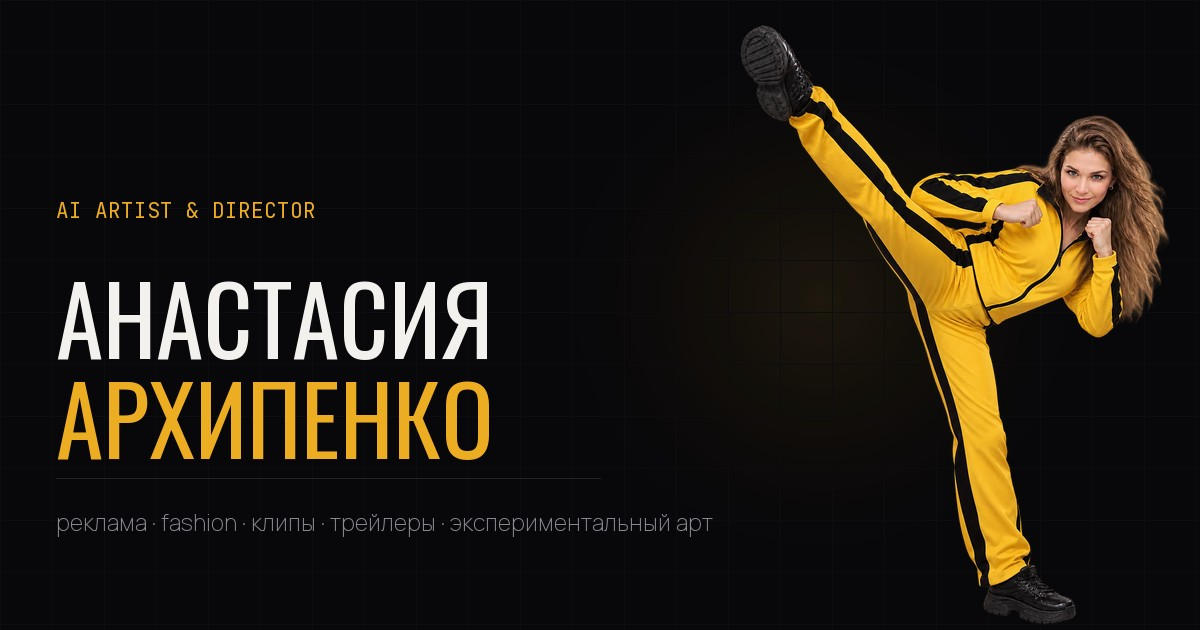
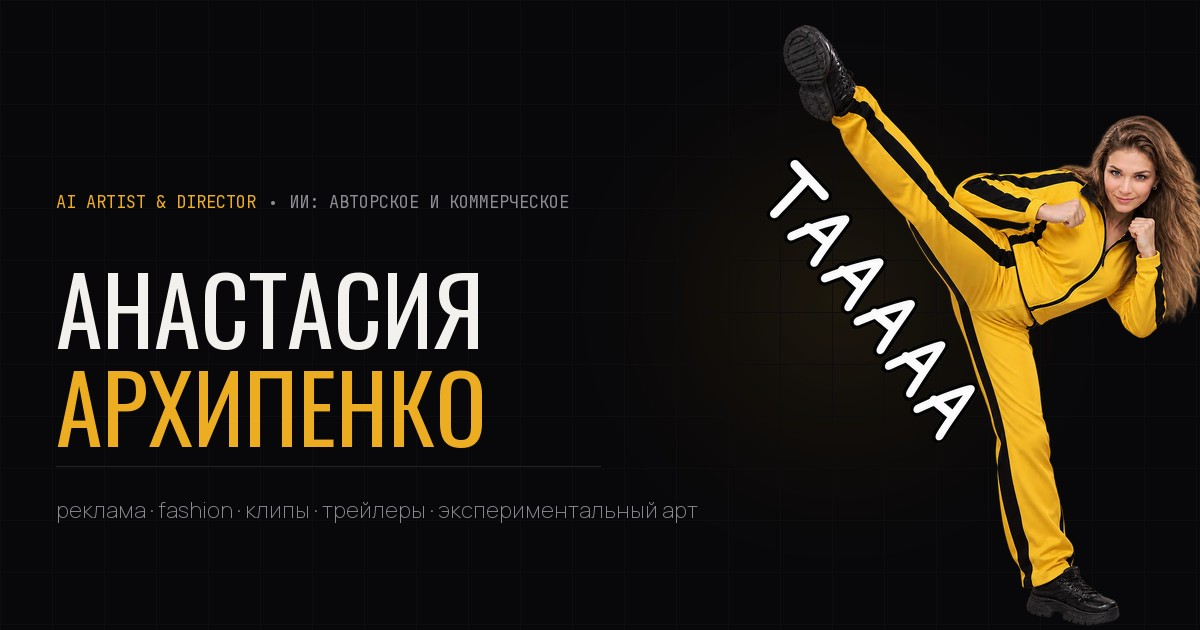
Обложка с буквами ТА, плотная жёлтая плашка, рука вместо кнопки, счётчик из-под крестика
Со-автор: Claude Opus 5 <noreply@anthropic.com>

diff --git a/index.html b/index.html
@@ -478,36 +478,40 @@ section{scroll-margin-top:calc(var(--nav-h) + 10px)}
    На жёлтом весь текст тёмный: акцентом здесь работает сам фон. */
 .contact{
   background:var(--yellow);color:#151208;
-  padding:clamp(38px,6vw,86px) 0 clamp(34px,5vw,70px);
+  padding:clamp(28px,3.6vw,52px) 0 clamp(24px,3vw,42px);
   text-align:left;
 }
 .contact .lbl{color:rgba(21,18,8,.58)}
 .contact h2{
-  font-family:var(--display);font-weight:700;font-size:clamp(34px,7vw,104px);
-  text-transform:uppercase;line-height:.95;margin:0 0 clamp(18px,2.4vw,30px);
+  font-family:var(--display);font-weight:700;font-size:clamp(32px,6vw,86px);
+  text-transform:uppercase;line-height:.95;margin:0 0 clamp(14px,1.8vw,22px);
   margin-left:-.017em;
 }
 .contact h2 .y{color:#151208}
 .steps{
-  list-style:none;counter-reset:s;padding:0;margin:0 0 clamp(26px,3.4vw,42px);
-  display:grid;gap:0;border-top:1px solid rgba(21,18,8,.2);max-width:760px;
+  list-style:none;counter-reset:s;padding:0;margin:0 0 clamp(20px,2.4vw,30px);
+  display:grid;gap:0;border-top:1px solid rgba(21,18,8,.2);max-width:720px;
 }
 .steps li{
-  counter-increment:s;position:relative;padding:clamp(13px,1.7vw,18px) 0 clamp(13px,1.7vw,18px) 42px;
-  border-bottom:1px solid rgba(21,18,8,.2);color:rgba(21,18,8,.82);font-size:clamp(14px,1.2vw,16.5px);
+  counter-increment:s;position:relative;
+  padding:clamp(9px,1.1vw,13px) 0 clamp(9px,1.1vw,13px) 54px;
+  border-bottom:1px solid rgba(21,18,8,.2);color:#151208;font-size:clamp(14px,1.2vw,16.5px);
 }
+/* номер в техничном квадрате — иначе на жёлтом он просто пропадал */
 .steps li::before{
   content:"0" counter(s);position:absolute;left:0;top:50%;transform:translateY(-50%);
-  font-family:var(--mono);font-size:10.5px;color:rgba(21,18,8,.5);
+  font-family:var(--mono);font-size:11.5px;font-weight:700;color:#151208;
+  border:1.5px solid rgba(21,18,8,.5);padding:5px 6px;line-height:1;
 }
-.socials{display:flex;align-items:center;gap:clamp(10px,1.6vw,18px);flex-wrap:wrap}
+.socials{display:flex;align-items:center;gap:clamp(8px,1.4vw,16px);flex-wrap:wrap}
 .socials .writeme{font-family:var(--mono);font-size:10.5px;letter-spacing:.18em;text-transform:uppercase;color:rgba(21,18,8,.6)}
-.tg{
-  font-family:var(--mono);font-size:12px;letter-spacing:.14em;text-transform:uppercase;font-weight:500;
-  padding:15px 26px;background:#0B0B0C;color:var(--yellow);
-  transition:transform .3s cubic-bezier(.16,1,.3,1),box-shadow .3s;
+/* указующая рука из черновика — покачивается вправо, к иконкам */
+.point{
+  flex:none;font-size:34px;line-height:1;color:#151208;
+  animation:nudge 2.4s ease-in-out infinite;
 }
-.tg:hover{transform:translateY(-3px);box-shadow:0 10px 24px -12px rgba(21,18,8,.8)}
+@keyframes nudge{0%,100%{translate:0 0}50%{translate:7px 0}}
+@media (prefers-reduced-motion:reduce){.point{animation:none}}
 .soc{
   width:46px;height:46px;display:grid;place-items:center;
   border:1px solid rgba(21,18,8,.32);color:rgba(21,18,8,.72);
@@ -576,7 +580,8 @@ footer{
 .car__nav--prev{left:12px}
 .car__nav--next{right:12px}
 .car__count{
-  position:absolute;right:12px;top:12px;z-index:3;
+  /* слева, а не справа: справа его закрывает крестик закрытия */
+  position:absolute;left:12px;top:12px;z-index:3;
   font-family:var(--mono);font-size:10.5px;letter-spacing:.1em;
   color:var(--muted);background:rgba(8,8,10,.72);border:1px solid var(--line);
   padding:5px 10px;border-radius:999px;font-variant-numeric:tabular-nums;
@@ -606,6 +611,15 @@ footer{
   .hero{grid-template-columns:1fr;gap:6px;padding-top:clamp(22px,6vw,34px)}
   .fmt span{flex:1 1 40%}
   /* вторая подпись уходит на свою строку — в одну они не помещаются */
+  .about{justify-items:center}
+  .pop{margin-inline:auto}
+  .about__body p{text-align:center}
+  /* «просто напишите» и три иконки должны умещаться в одну строку */
+  .socials{gap:8px;flex-wrap:nowrap}
+  .socials .writeme{font-size:9.5px;letter-spacing:.12em}
+  .point{font-size:26px}
+  .soc{width:42px;height:42px}
+  .soc svg{width:19px;height:19px}
   .hero__eyebrow{font-size:10px;line-height:1.7}
   .hero__eyebrow s{display:none}
   .hero__eyebrow b{display:block}
@@ -856,9 +870,8 @@ footer{
       <li data-ru="фиксируем условия — и я приступаю" data-en="we agree the terms, and i get started">фиксируем условия — и я приступаю</li>
     </ol>
     <div class="socials">
-      <a class="tg" href="https://telegram.me/Anastasia_aa_aa" target="_blank" rel="noopener"
-         data-ru="написать в телеграм" data-en="message me on telegram">написать в телеграм</a>
-      <span class="writeme" data-ru="или" data-en="or">или</span>
+      <span class="writeme" data-ru="просто напишите" data-en="drop me a line">просто напишите</span>
+      <span class="point" aria-hidden="true">☞</span>
       <a class="soc" href="mailto:ai.mambaaa@gmail.com" aria-label="Email">
         <svg viewBox="0 0 24 24" fill="none" stroke="currentColor" stroke-width="1.4" stroke-linecap="round" stroke-linejoin="round">
           <rect x="2.6" y="4.8" width="18.8" height="14.4" rx="3"/>

diff --git a/en/index.html b/en/index.html
@@ -478,36 +478,40 @@ section{scroll-margin-top:calc(var(--nav-h) + 10px)}
    На жёлтом весь текст тёмный: акцентом здесь работает сам фон. */
 .contact{
   background:var(--yellow);color:#151208;
-  padding:clamp(38px,6vw,86px) 0 clamp(34px,5vw,70px);
+  padding:clamp(28px,3.6vw,52px) 0 clamp(24px,3vw,42px);
   text-align:left;
 }
 .contact .lbl{color:rgba(21,18,8,.58)}
 .contact h2{
-  font-family:var(--display);font-weight:700;font-size:clamp(34px,7vw,104px);
-  text-transform:uppercase;line-height:.95;margin:0 0 clamp(18px,2.4vw,30px);
+  font-family:var(--display);font-weight:700;font-size:clamp(32px,6vw,86px);
+  text-transform:uppercase;line-height:.95;margin:0 0 clamp(14px,1.8vw,22px);
   margin-left:-.017em;
 }
 .contact h2 .y{color:#151208}
 .steps{
-  list-style:none;counter-reset:s;padding:0;margin:0 0 clamp(26px,3.4vw,42px);
-  display:grid;gap:0;border-top:1px solid rgba(21,18,8,.2);max-width:760px;
+  list-style:none;counter-reset:s;padding:0;margin:0 0 clamp(20px,2.4vw,30px);
+  display:grid;gap:0;border-top:1px solid rgba(21,18,8,.2);max-width:720px;
 }
 .steps li{
-  counter-increment:s;position:relative;padding:clamp(13px,1.7vw,18px) 0 clamp(13px,1.7vw,18px) 42px;
-  border-bottom:1px solid rgba(21,18,8,.2);color:rgba(21,18,8,.82);font-size:clamp(14px,1.2vw,16.5px);
+  counter-increment:s;position:relative;
+  padding:clamp(9px,1.1vw,13px) 0 clamp(9px,1.1vw,13px) 54px;
+  border-bottom:1px solid rgba(21,18,8,.2);color:#151208;font-size:clamp(14px,1.2vw,16.5px);
 }
+/* номер в техничном квадрате — иначе на жёлтом он просто пропадал */
 .steps li::before{
   content:"0" counter(s);position:absolute;left:0;top:50%;transform:translateY(-50%);
-  font-family:var(--mono);font-size:10.5px;color:rgba(21,18,8,.5);
+  font-family:var(--mono);font-size:11.5px;font-weight:700;color:#151208;
+  border:1.5px solid rgba(21,18,8,.5);padding:5px 6px;line-height:1;
 }
-.socials{display:flex;align-items:center;gap:clamp(10px,1.6vw,18px);flex-wrap:wrap}
+.socials{display:flex;align-items:center;gap:clamp(8px,1.4vw,16px);flex-wrap:wrap}
 .socials .writeme{font-family:var(--mono);font-size:10.5px;letter-spacing:.18em;text-transform:uppercase;color:rgba(21,18,8,.6)}
-.tg{
-  font-family:var(--mono);font-size:12px;letter-spacing:.14em;text-transform:uppercase;font-weight:500;
-  padding:15px 26px;background:#0B0B0C;color:var(--yellow);
-  transition:transform .3s cubic-bezier(.16,1,.3,1),box-shadow .3s;
+/* указующая рука из черновика — покачивается вправо, к иконкам */
+.point{
+  flex:none;font-size:34px;line-height:1;color:#151208;
+  animation:nudge 2.4s ease-in-out infinite;
 }
-.tg:hover{transform:translateY(-3px);box-shadow:0 10px 24px -12px rgba(21,18,8,.8)}
+@keyframes nudge{0%,100%{translate:0 0}50%{translate:7px 0}}
+@media (prefers-reduced-motion:reduce){.point{animation:none}}
 .soc{
   width:46px;height:46px;display:grid;place-items:center;
   border:1px solid rgba(21,18,8,.32);color:rgba(21,18,8,.72);
@@ -576,7 +580,8 @@ footer{
 .car__nav--prev{left:12px}
 .car__nav--next{right:12px}
 .car__count{
-  position:absolute;right:12px;top:12px;z-index:3;
+  /* слева, а не справа: справа его закрывает крестик закрытия */
+  position:absolute;left:12px;top:12px;z-index:3;
   font-family:var(--mono);font-size:10.5px;letter-spacing:.1em;
   color:var(--muted);background:rgba(8,8,10,.72);border:1px solid var(--line);
   padding:5px 10px;border-radius:999px;font-variant-numeric:tabular-nums;
@@ -606,6 +611,15 @@ footer{
   .hero{grid-template-columns:1fr;gap:6px;padding-top:clamp(22px,6vw,34px)}
   .fmt span{flex:1 1 40%}
   /* вторая подпись уходит на свою строку — в одну они не помещаются */
+  .about{justify-items:center}
+  .pop{margin-inline:auto}
+  .about__body p{text-align:center}
+  /* «просто напишите» и три иконки должны умещаться в одну строку */
+  .socials{gap:8px;flex-wrap:nowrap}
+  .socials .writeme{font-size:9.5px;letter-spacing:.12em}
+  .point{font-size:26px}
+  .soc{width:42px;height:42px}
+  .soc svg{width:19px;height:19px}
   .hero__eyebrow{font-size:10px;line-height:1.7}
   .hero__eyebrow s{display:none}
   .hero__eyebrow b{display:block}
@@ -830,8 +844,8 @@ footer{
       <li>we agree the terms, and i get started</li>
     </ol>
     <div class="socials">
-      <a class="tg" href="https://telegram.me/Anastasia_aa_aa" target="_blank" rel="noopener">message me on telegram</a>
-      <span class="writeme">or</span>
+      <span class="writeme">drop me a line</span>
+      <span class="point" aria-hidden="true">☞</span>
       <a class="soc" href="mailto:ai.mambaaa@gmail.com" aria-label="Email">
         <svg viewBox="0 0 24 24" fill="none" stroke="currentColor" stroke-width="1.4" stroke-linecap="round" stroke-linejoin="round">
           <rect x="2.6" y="4.8" width="18.8" height="14.4" rx="3"/>
